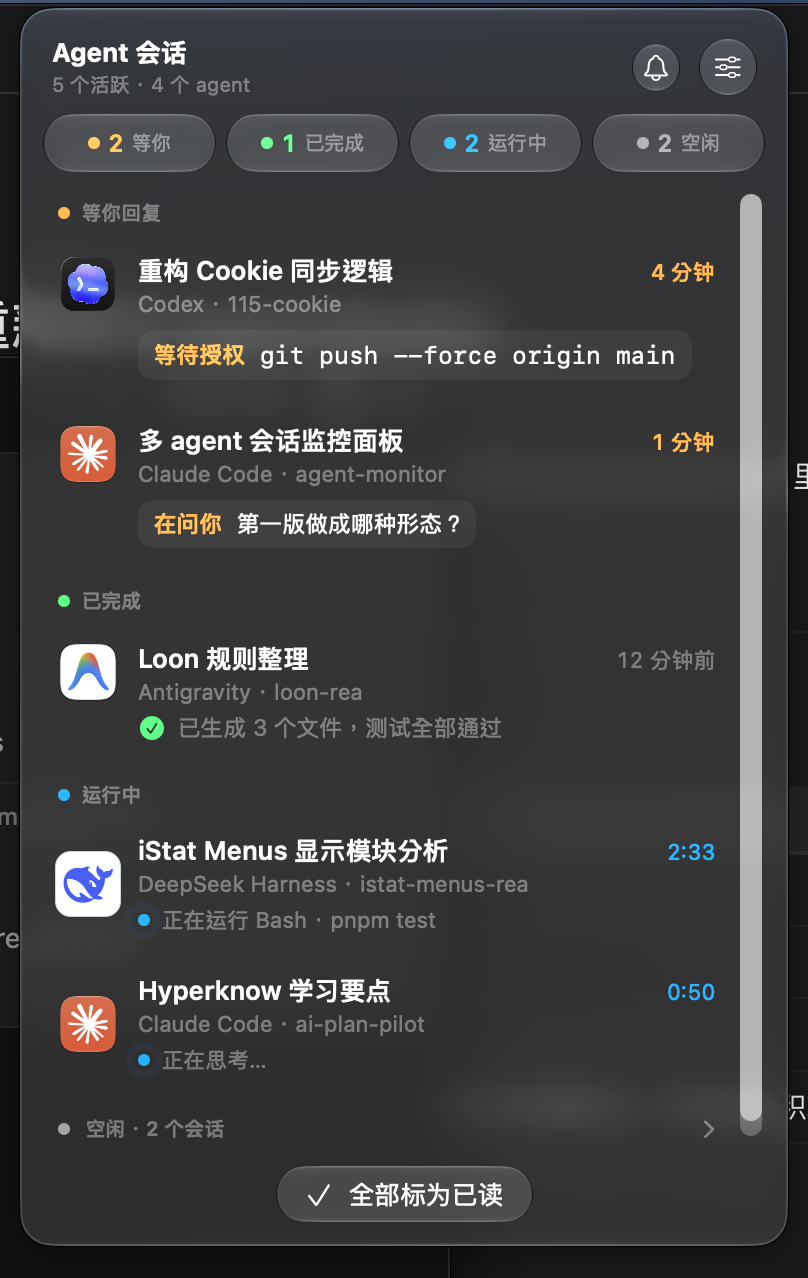
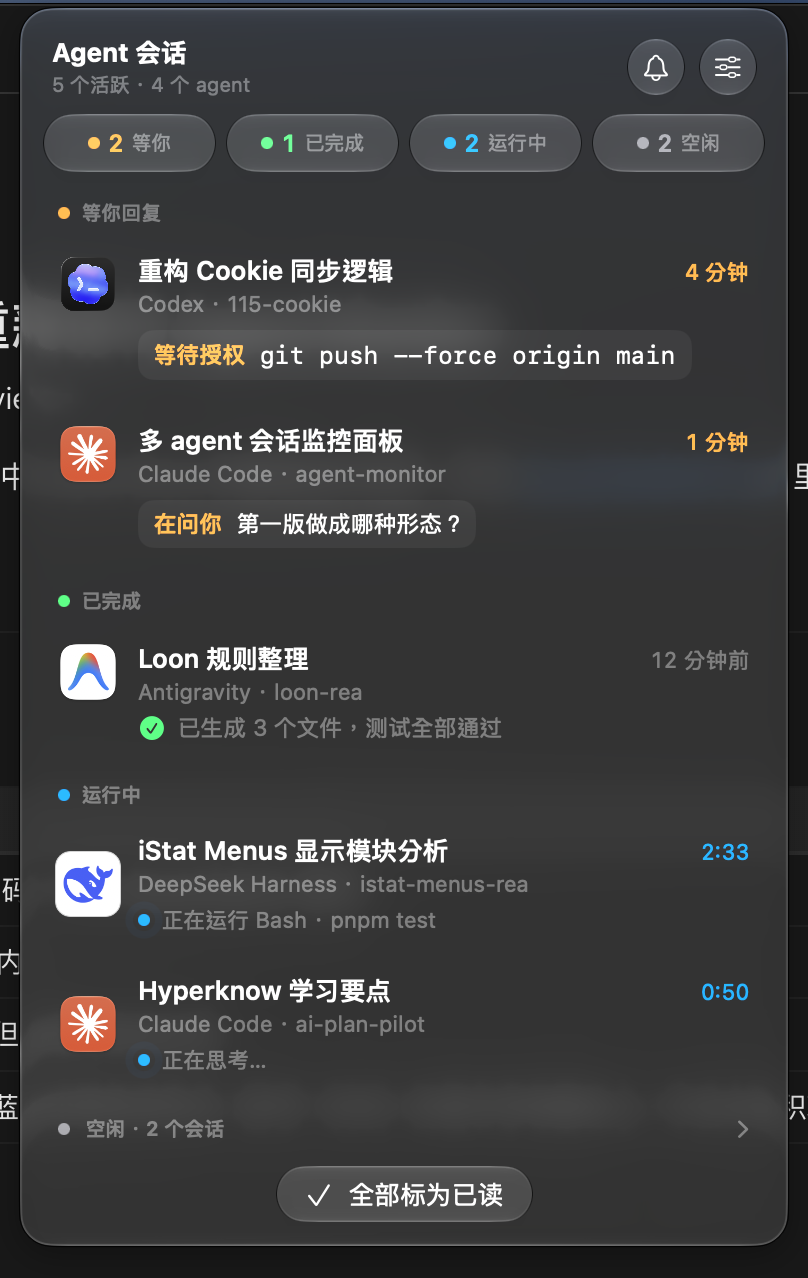
fix(panel): stop phantom list scroll, match header buttons, harden a11y capture
- Zero the bottom safeAreaInset spacing: the default ~8pt gap was not part
  of the measured button height, so the list always scrolled by 8pt
- Raise the list height cap from 520 to 600 so a typical set of sessions
  fits without scrolling
- Build the bell button like the settings menu (28pt label + glassEffect)
  so both header buttons are the same size
- Add an AgentMonitorTests target covering filter auto-clear and the
  mark-all-read visibility rule
- capture-a11y.swift restores each setting to its original value, tries
  Simplified/Traditional/English labels, and aborts if a checkbox is missing
- Regenerate panel screenshots; note the round in HANDOFF

diff --git a/scripts/capture-a11y.swift b/scripts/capture-a11y.swift
@@ -1,7 +1,7 @@
 // Captures accessibility panel screenshots (reduce transparency & increase contrast) into docs/screenshots/a11y/.
 //
-// Automatically toggles each accessibility setting, takes the screenshot, and immediately reverts the setting.
-// At the end of execution, all accessibility and appearance settings are verified to be restored.
+// Toggles each accessibility setting on, takes the screenshot, then puts the setting back to the value it had
+// before the run. Aborts without capturing if a checkbox can't be found, so it never reports a fake restore.
 
 import AppKit
 import CoreGraphics
@@ -132,10 +132,26 @@ let wasAgentMonitorRunning = !runBash("pgrep -x AgentMonitor || true").isEmpty
 setDarkMode(false)
 openAccessibilityDisplay()
 
-// Safety check initial values
-let initialReduceTrans = getCheckboxValue(name: "減少透明度")
-let initialContrast = getCheckboxValue(name: "增加對比")
-print("Initial settings: 減少透明度=\(initialReduceTrans), 增加對比=\(initialContrast)")
+// The checkbox labels follow the system language; try each known spelling
+let reduceTransparencyNames = ["降低透明度", "減少透明度", "減低透明度", "Reduce transparency"]
+let increaseContrastNames = ["增强对比度", "增加對比", "增加對比度", "Increase contrast"]
+
+func resolveCheckbox(_ candidates: [String]) -> (name: String, value: Int)? {
+    for name in candidates {
+        let value = getCheckboxValue(name: name)
+        if value == 0 || value == 1 { return (name, value) }
+    }
+    return nil
+}
+
+guard let reduceTrans = resolveCheckbox(reduceTransparencyNames),
+      let contrast = resolveCheckbox(increaseContrastNames) else {
+    print("Error: could not find the accessibility checkboxes in System Settings; nothing was changed.")
+    closeSystemSettings()
+    setDarkMode(originalDarkMode)
+    exit(1)
+}
+print("Initial settings: \(reduceTrans.name)=\(reduceTrans.value), \(contrast.name)=\(contrast.value)")
 
 func capturePanel(outPath: String) {
     let proc = launchApp(env: [
@@ -177,26 +193,28 @@ func capturePanel(outPath: String) {
     killAgentMonitor()
 }
 
+// Start from both settings off so each capture shows only one effect
+setCheckbox(name: reduceTrans.name, target: false)
+setCheckbox(name: contrast.name, target: false)
+
 // 1. Capture Reduce Transparency
-print("--> Toggling Reduce Transparency (減少透明度) ON...")
-setCheckbox(name: "減少透明度", target: true)
-let reduceTransPath = "\(destDir)/panel-reduce-transparency.png"
-capturePanel(outPath: reduceTransPath)
-print("--> Restoring Reduce Transparency (減少透明度) OFF...")
-setCheckbox(name: "減少透明度", target: false)
+setCheckbox(name: reduceTrans.name, target: true)
+capturePanel(outPath: "\(destDir)/panel-reduce-transparency.png")
+setCheckbox(name: reduceTrans.name, target: false)
 
 // 2. Capture Increase Contrast
-print("--> Toggling Increase Contrast (增加對比) ON...")
-setCheckbox(name: "增加對比", target: true)
-let increaseContrastPath = "\(destDir)/panel-increase-contrast.png"
-capturePanel(outPath: increaseContrastPath)
-print("--> Restoring Increase Contrast (增加對比) OFF...")
-setCheckbox(name: "增加對比", target: false)
+setCheckbox(name: contrast.name, target: true)
+capturePanel(outPath: "\(destDir)/panel-increase-contrast.png")
+setCheckbox(name: contrast.name, target: false)
 
-// Final verification of restoration
-let finalReduceTrans = getCheckboxValue(name: "減少透明度")
-let finalContrast = getCheckboxValue(name: "增加對比")
-print("Verified restored settings: 減少透明度=\(finalReduceTrans) (expected 0), 增加對比=\(finalContrast) (expected 0)")
+// Put both settings back to what the user had before the run
+setCheckbox(name: reduceTrans.name, target: reduceTrans.value == 1)
+setCheckbox(name: contrast.name, target: contrast.value == 1)
+
+let finalReduceTrans = getCheckboxValue(name: reduceTrans.name)
+let finalContrast = getCheckboxValue(name: contrast.name)
+let restored = finalReduceTrans == reduceTrans.value && finalContrast == contrast.value
+print("Final settings: \(reduceTrans.name)=\(finalReduceTrans), \(contrast.name)=\(finalContrast) (expected \(reduceTrans.value), \(contrast.value))")
 
 closeSystemSettings()
 setDarkMode(originalDarkMode)
@@ -205,4 +223,8 @@ if wasAgentMonitorRunning {
     _ = runBash("open /Users/cy/code/agent-monitor/build/AgentMonitor.app")
 }
 
-print("==> Accessibility captures successfully completed and settings restored.")
+if !restored {
+    print("Warning: accessibility settings differ from their original values; check System Settings › Accessibility › Display.")
+    exit(1)
+}
+print("==> Accessibility captures completed and settings restored.")

diff --git a/Tests/AgentMonitorTests/MonitorViewModelTests.swift b/Tests/AgentMonitorTests/MonitorViewModelTests.swift
@@ -1,0 +1,34 @@
+import Testing
+import AgentMonitorCore
+@testable import AgentMonitor
+
+@Suite("MonitorViewModel Tests")
+@MainActor
+struct MonitorViewModelTests {
+
+    private func session(_ id: String, _ state: SessionState) -> AgentSession {
+        AgentSession(id: id, kind: .claudeCode, title: id, state: state)
+    }
+
+    @Test("Filter is cleared once no session matches it")
+    func testShouldClearFilter() {
+        let sessions = [session("a", .running), session("b", .idle)]
+
+        #expect(MonitorViewModel.shouldClearFilter(currentFilter: nil, sessions: sessions) == false)
+        #expect(MonitorViewModel.shouldClearFilter(currentFilter: .running, sessions: sessions) == false)
+        // The last completed session was marked as read, so the completed filter has nothing left to show
+        #expect(MonitorViewModel.shouldClearFilter(currentFilter: .completed, sessions: sessions) == true)
+        #expect(MonitorViewModel.shouldClearFilter(currentFilter: .idle, sessions: []) == true)
+    }
+
+    @Test("Mark-all-read shows only when completed sessions are visible")
+    func testShouldShowMarkAllAsRead() {
+        let withDone = [session("a", .completed), session("b", .waitingForUser)]
+        let withoutDone = [session("b", .waitingForUser)]
+
+        #expect(MonitorViewModel.shouldShowMarkAllAsRead(sessions: withDone, filterState: nil) == true)
+        #expect(MonitorViewModel.shouldShowMarkAllAsRead(sessions: withDone, filterState: .completed) == true)
+        #expect(MonitorViewModel.shouldShowMarkAllAsRead(sessions: withDone, filterState: .waitingForUser) == false)
+        #expect(MonitorViewModel.shouldShowMarkAllAsRead(sessions: withoutDone, filterState: nil) == false)
+    }
+}

diff --git a/Sources/AgentMonitor/Panel/SessionList.swift b/Sources/AgentMonitor/Panel/SessionList.swift
@@ -7,6 +7,9 @@ struct SessionList: View {
     @LocalState private var contentHeight: CGFloat = 0
     @LocalState private var buttonHeight: CGFloat = 46
 
+    /// Tall enough that a typical handful of sessions fits without scrolling, short enough for a 13" screen
+    private let maxListHeight: CGFloat = 600
+
     private var showBottomButton: Bool {
         viewModel.showBottomButton
     }
@@ -101,7 +104,8 @@ struct SessionList: View {
         }
         .scrollBounceBehavior(.basedOnSize)
         .scrollEdgeEffectStyle(.soft, for: [.top, .bottom])
-        .safeAreaInset(edge: .bottom) {
+        // spacing: 0 so the inset equals the measured button height that the frame below adds
+        .safeAreaInset(edge: .bottom, spacing: 0) {
             if showBottomButton {
                 Button(action: {
                     withAnimation(.smooth) {
@@ -121,8 +125,8 @@ struct SessionList: View {
                 .frame(maxWidth: .infinity)
             }
         }
-        .frame(height: contentHeight > 0 ? min(contentHeight + (showBottomButton ? buttonHeight : 0), 520) : nil)
-        .frame(maxHeight: 520)
+        .frame(height: contentHeight > 0 ? min(contentHeight + (showBottomButton ? buttonHeight : 0), maxListHeight) : nil)
+        .frame(maxHeight: maxListHeight)
         .clipped()
     }
 

diff --git a/Sources/AgentMonitor/Panel/PanelHeader.swift b/Sources/AgentMonitor/Panel/PanelHeader.swift
@@ -28,11 +28,11 @@ struct PanelHeader: View {
                     }) {
                         Image(systemName: viewModel.isNotificationsPaused ? "bell.slash.fill" : "bell")
                             .foregroundColor(viewModel.isNotificationsPaused ? .orange : .primary)
+                            .frame(width: 28, height: 28)
+                            .contentShape(.circle)
                     }
-                    .frame(width: 28, height: 28)
-                    .buttonStyle(.glass)
-                    .buttonBorderShape(.circle)
-                    .controlSize(.regular)
+                    .buttonStyle(.plain)
+                    .glassEffect(.regular.interactive(), in: .circle)
                     .help(viewModel.isNotificationsPaused ? "恢复通知" : "暂停通知 1 小时")
                     .accessibilityLabel(viewModel.isNotificationsPaused ? "恢复通知" : "暂停通知 1 小时")
 

diff --git a/Package.swift b/Package.swift
@@ -49,6 +49,16 @@ let package = Package(
[1 lines of base64/hex data omitted]
                 ])
             ]
+        ),
+        .testTarget(
+            name: "AgentMonitorTests",
+            dependencies: ["AgentMonitor", "AgentMonitorCore"],
+            path: "Tests/AgentMonitorTests",
+            swiftSettings: [
+                .unsafeFlags([
[1 lines of base64/hex data omitted]
+                ])
+            ]
         )
     ]
 )

diff --git a/docs/HANDOFF.md b/docs/HANDOFF.md
@@ -389,3 +389,17 @@ Initial transitions generated: 3 (suppressed from notifications)
 
 
 
+## 7. 第二轮 review 后的收尾修复（Claude）
+
+- **列表高度**：
+  - 上限从 520 调到 600，常规 5 条会话不再需要滚动。
+  - 之前总是多出约 8pt 可滚动的高度，原因是 `safeAreaInset` 默认会在按钮和内容之间额外加约 8pt 间距，而这段间距没有算进测得的按钮高度里。现改为 `safeAreaInset(edge: .bottom, spacing: 0)`。
+  - 修复后，`panel-*.png` 里系统设置为「始终显示滚动条」时，不再出现滚动条，右侧时间列也不会被挤开。
+- **头部按钮**：铃铛按钮改成和设置按钮相同的写法：28pt 的 label，加 `.glassEffect(.regular.interactive(), in: .circle)`，再加 `.buttonStyle(.plain)`。现在两个按钮一样大。
+- **单元测试**：新增 `AgentMonitorTests` target，通过 `@testable import AgentMonitor` 测试 `shouldClearFilter` 和 `shouldShowMarkAllAsRead`。SPM 是允许测试 target 依赖可执行 target 的。
+- **`capture-a11y.swift` 截图脚本**：
+  - 截完图后把两个开关恢复到**运行前的原值**，不再一律关闭；
+  - 复选框名称按简体、繁体、英文依次尝试；
+  - 两个开关都找不到时直接退出，不做任何修改；
+  - 恢复后的值和原值不一致时，以非 0 状态码退出。
+  - 这个脚本会修改系统辅助功能设置，所以本轮只做了类型检查，**没有实际运行**。`docs/screenshots/a11y/` 里仍是上一轮的截图。

diff --git a/README.md b/README.md
@@ -86,7 +86,7 @@ open build/AgentMonitor.app
   - **会话列表 (SessionList & SessionRow)**：
     - 合并为单一行架构，采用行内独立 `@LocalState` 悬停动效与 12pt continuous 同心圆角；
     - 等你回复命令浅底框采用 `.fill.quaternary` 中性底色，命令单行中间截断；
-    - 列表区域限制 `maxHeight: 520pt`，随内容自然收缩，超出时平滑滚动并搭配 `.scrollEdgeEffectStyle(.soft, for: [.top, .bottom])` 柔和淡出边缘。
+    - 列表区域限制 `maxHeight: 600pt`，随内容自然收缩，超出时平滑滚动并搭配 `.scrollEdgeEffectStyle(.soft, for: [.top, .bottom])` 柔和淡出边缘。
   - **底部浮动操作胶囊**：仅在存在未读已完成会话时，通过 `.safeAreaInset(edge: .bottom)` 浮动展示「全部标为已读」大尺寸玻璃胶囊（`.controlSize(.large)`），配合 `.glassEffectTransition(.materialize)` 平滑显隐。
   - **系统语义色适配**：全面废除 Hex 调色盘，原生适配系统深浅色切换、降低透明度与增加对比度辅助功能设置。
 
